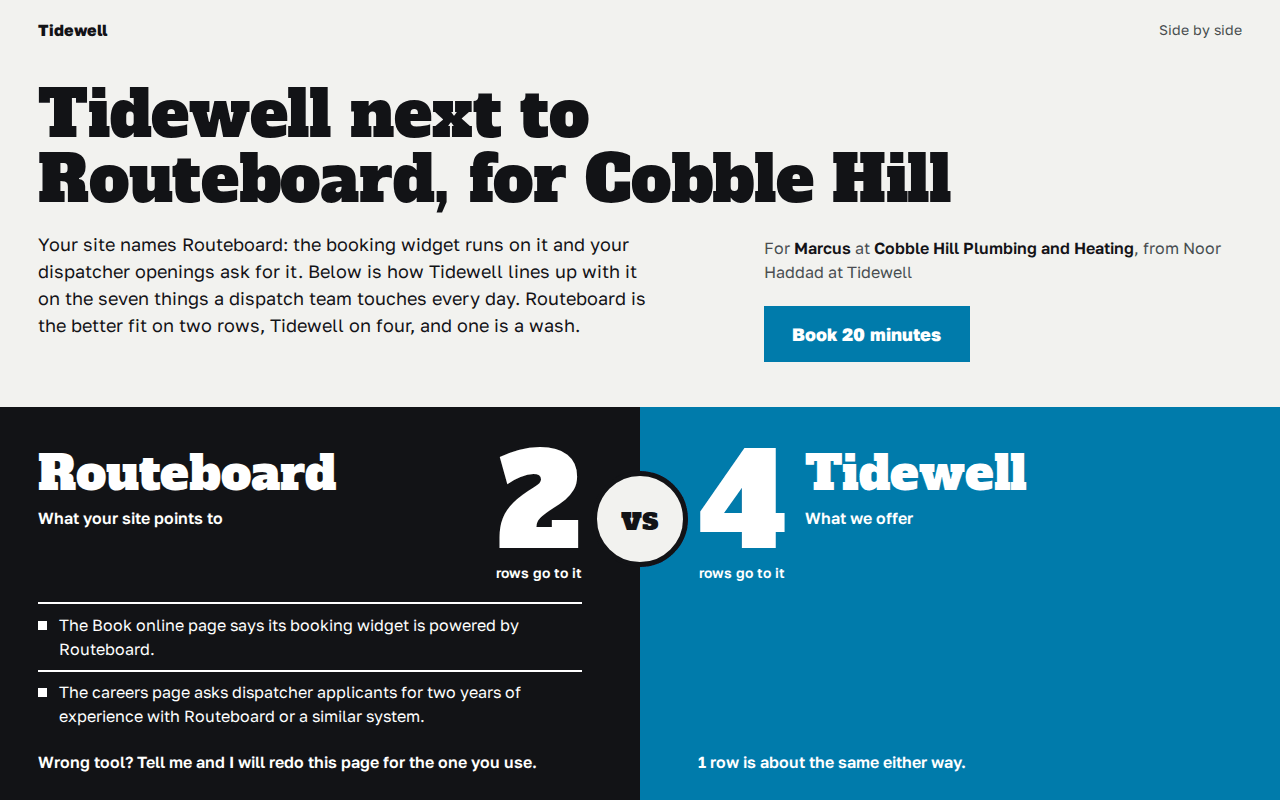
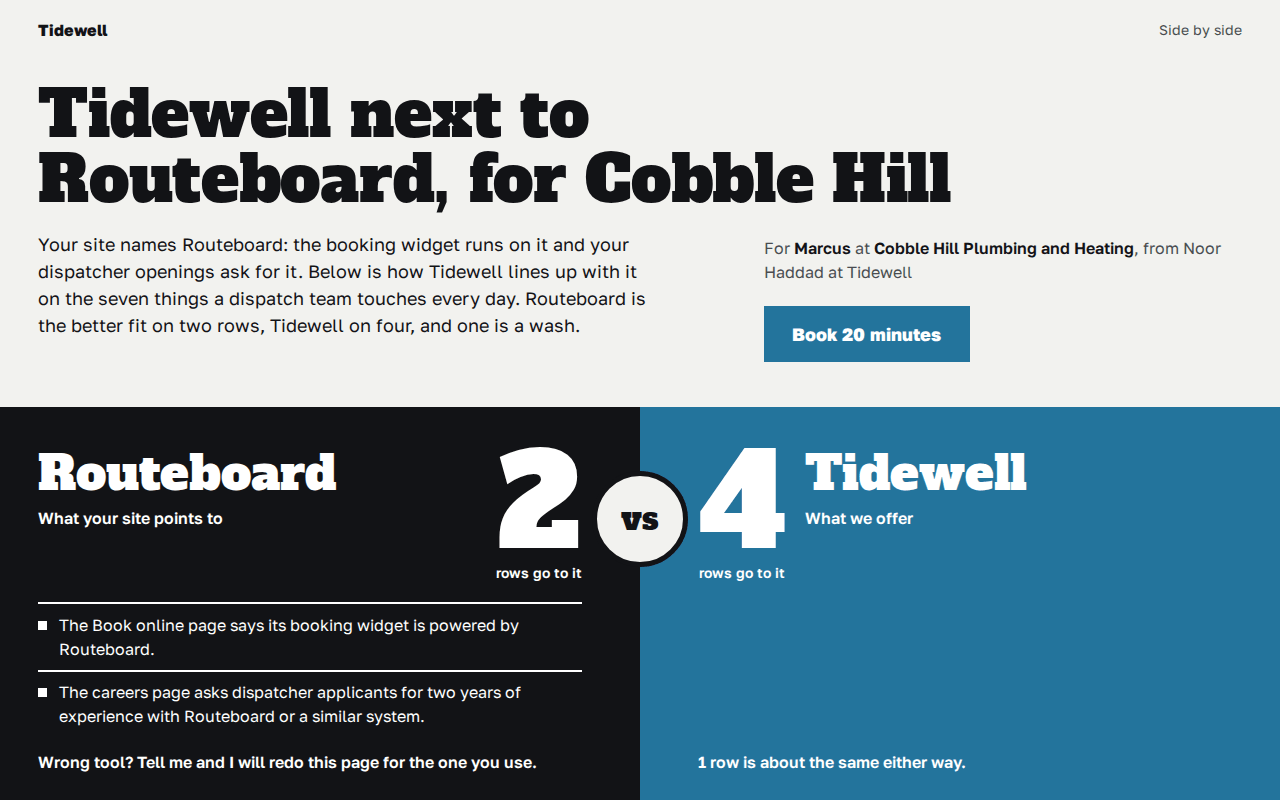
Library colour pass: comparison, softer corner blue

Changed region(s): [[0.5, 0.5, 1.0, 1.0], [0.5938, 0.375, 0.7812, 0.4688]]

diff --git a/starters/comparison/preview/brookside-partial.html b/starters/comparison/preview/brookside-partial.html
@@ -11,10 +11,10 @@
 *{box-sizing:border-box}
 html{-webkit-text-size-adjust:100%}
 body{margin:0;background:#f2f2ef;color:#121316;font-family:'Golos Text',ui-sans-serif,system-ui,sans-serif;font-size:17px;line-height:1.5;-webkit-font-smoothing:antialiased}
-.vs{--a:#007bab;--a2:#121316;--hw:400;--ink:#121316;--soft:#4a4c52;--paper:#f2f2ef;--tone:#e3e3de;
+.vs{--a:#23749c;--a2:#121316;--hw:400;--ink:#121316;--soft:#4a4c52;--paper:#f2f2ef;--tone:#e3e3de;
 --on-a:#fff;--on-a:color(from var(--a) xyz-d65 clamp(0,(.18 - y) * 1000000,.9505) clamp(0,(.18 - y) * 1000000,1) clamp(0,(.18 - y) * 1000000,1.089));
 --on-a2:#f2f2ef;--on-a2:color(from var(--a2) xyz-d65 clamp(0,(.18 - y) * 1000000,.9505) clamp(0,(.18 - y) * 1000000,1) clamp(0,(.18 - y) * 1000000,1.089));
---mark:#007bab;--mark:oklch(from var(--a) min(l,0.5) c h);
+--mark:#23749c;--mark:oklch(from var(--a) min(l,0.5) c h);
 --mark2:#121316;--mark2:oklch(from var(--a2) min(l,0.45) c h);
 --m:clamp(1.125rem,3vw,2.5rem);overflow-x:clip}
 .vs h1,.vs h2,.vs h3,.c-name,.c-score b,.disc{font-family:'Alfa Slab One',Rockwell,Georgia,serif;font-weight:var(--hw);letter-spacing:-.005em;line-height:1.02;text-wrap:balance;margin:0}

diff --git a/starters/comparison/preview/cobble-hill.html b/starters/comparison/preview/cobble-hill.html
@@ -11,10 +11,10 @@
 *{box-sizing:border-box}
 html{-webkit-text-size-adjust:100%}
 body{margin:0;background:#f2f2ef;color:#121316;font-family:'Golos Text',ui-sans-serif,system-ui,sans-serif;font-size:17px;line-height:1.5;-webkit-font-smoothing:antialiased}
-.vs{--a:#007bab;--a2:#121316;--hw:400;--ink:#121316;--soft:#4a4c52;--paper:#f2f2ef;--tone:#e3e3de;
+.vs{--a:#23749c;--a2:#121316;--hw:400;--ink:#121316;--soft:#4a4c52;--paper:#f2f2ef;--tone:#e3e3de;
 --on-a:#fff;--on-a:color(from var(--a) xyz-d65 clamp(0,(.18 - y) * 1000000,.9505) clamp(0,(.18 - y) * 1000000,1) clamp(0,(.18 - y) * 1000000,1.089));
 --on-a2:#f2f2ef;--on-a2:color(from var(--a2) xyz-d65 clamp(0,(.18 - y) * 1000000,.9505) clamp(0,(.18 - y) * 1000000,1) clamp(0,(.18 - y) * 1000000,1.089));
---mark:#007bab;--mark:oklch(from var(--a) min(l,0.5) c h);
+--mark:#23749c;--mark:oklch(from var(--a) min(l,0.5) c h);
 --mark2:#121316;--mark2:oklch(from var(--a2) min(l,0.45) c h);
 --m:clamp(1.125rem,3vw,2.5rem);overflow-x:clip}
 .vs h1,.vs h2,.vs h3,.c-name,.c-score b,.disc{font-family:'Alfa Slab One',Rockwell,Georgia,serif;font-weight:var(--hw);letter-spacing:-.005em;line-height:1.02;text-wrap:balance;margin:0}
